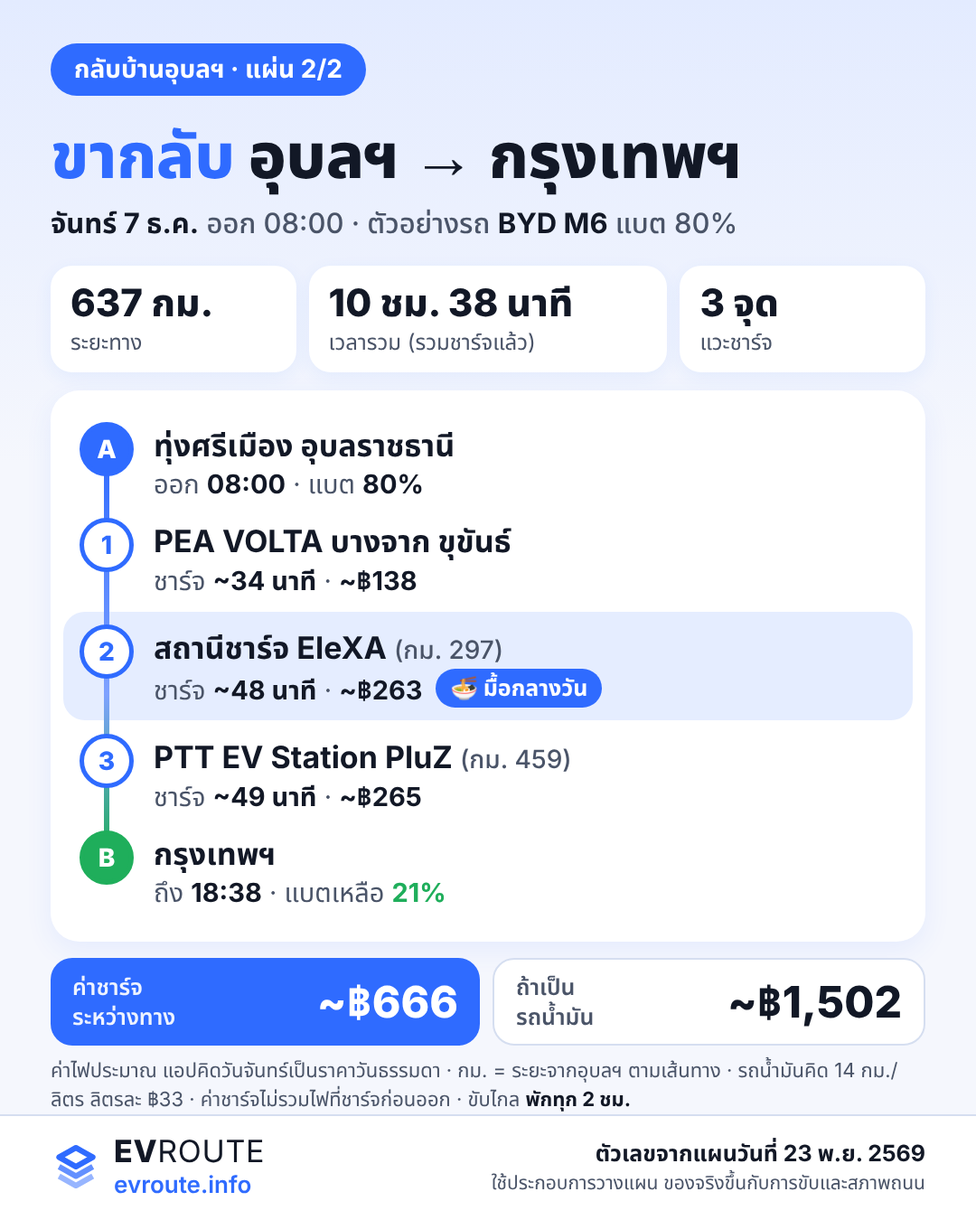
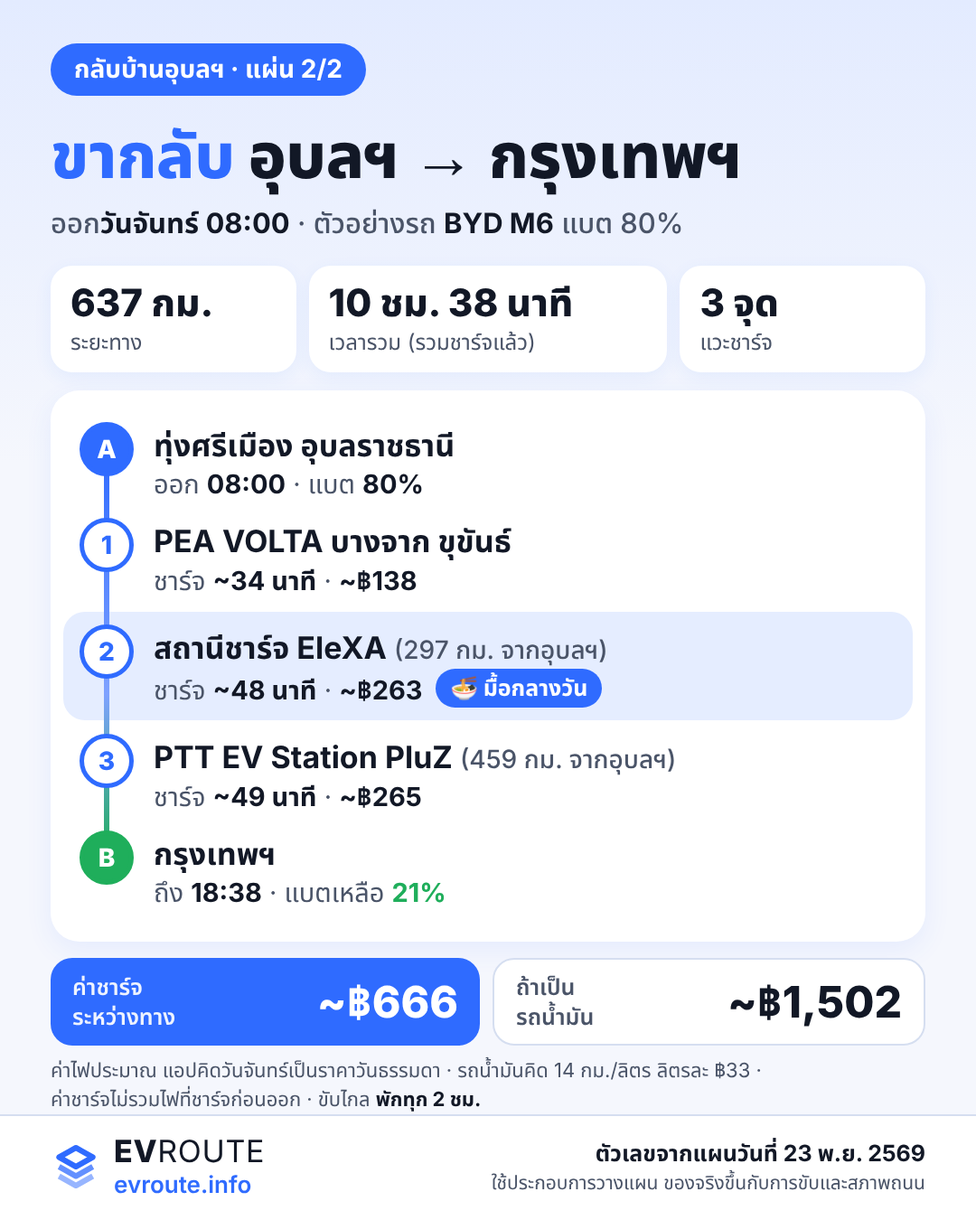
Long-weekend campaign: 8 images (visual-designer)
Claude-Session: https://claude.ai/code/session_01LGo3dKAudiWU9QkRQhtUip

diff --git a/marketing/2026-12-longweekend/images/src/base.css b/marketing/2026-12-longweekend/images/src/base.css
@@ -13,7 +13,7 @@ body{font-family:"Inter","Noto Sans Thai","Noto Color Emoji",sans-serif;color:va
 .canvas{position:relative;width:1080px;height:1350px;overflow:hidden;display:flex;flex-direction:column;
   padding:48px 56px 0;background:linear-gradient(180deg,#e3ebff 0%,#f5f7fd 38%,#f5f7fd 100%)}
 .canvas.sq{height:1080px}
-.canvas.story{height:1920px;padding-top:200px}
+.canvas.story{height:1920px;padding-top:176px;padding-bottom:200px} /* Story UI covers top/bottom */
 
 .pill{align-self:flex-start;display:inline-flex;align-items:center;gap:10px;background:var(--blue);color:#fff;
   font-weight:700;font-size:28px;line-height:1.2;padding:12px 26px;border-radius:999px}
@@ -110,7 +110,7 @@ h1 .accent{color:var(--blue)}
 .trip{flex:1;background:#fff;border-radius:30px;padding:24px 28px 26px;box-shadow:0 10px 30px rgba(47,107,255,.08);display:flex;flex-direction:column}
 .trip .dest{font-size:56px;font-weight:800;line-height:1.25;color:var(--blue)}
 .trip .prov{font-size:26px;color:var(--muted);line-height:1.3}
-.trip .car{font-size:24px;line-height:1.4;color:var(--muted);margin-top:10px;padding-bottom:14px;border-bottom:2px solid var(--line)}
+.trip .car{font-size:25px;line-height:1.4;color:var(--muted);margin-top:10px;padding-bottom:14px;border-bottom:2px solid var(--line)}
 .trip .car b{color:var(--ink)}
 .trip .row{padding:12px 0;border-bottom:2px solid var(--line)}
 .trip .row:last-child{border-bottom:0;padding-bottom:0}
@@ -125,22 +125,22 @@ h1 .accent{color:var(--blue)}
 .note{font-size:27px;line-height:1.45;margin-top:16px;color:var(--ink);text-align:center;font-weight:600}
 
 /* G3 story */
-.story h1{font-size:104px;line-height:1.22}
+.story h1{font-size:96px;line-height:1.22}
 .story .foot{margin:auto 0 0;border-radius:28px;border:2px solid var(--line);padding:20px 32px 22px}
 .tips{display:flex;gap:12px;flex-wrap:wrap;margin-top:22px}
 .tips span{background:#fff;border:2px solid var(--line);border-radius:999px;padding:8px 22px 10px;font-size:30px;font-weight:600;line-height:1.3}
-.cta{margin-top:22px;background:var(--blue);color:#fff;border-radius:28px;padding:22px 32px;font-size:38px;font-weight:800;line-height:1.3;text-align:center}
-.cta small{display:block;font-size:28px;font-weight:600;opacity:.92}
+.cta{margin-top:26px;color:var(--blue);font-size:36px;font-weight:800;line-height:1.35;text-align:center}
+.cta small{display:block;font-size:27px;font-weight:600;color:var(--muted)}
 
 /* G4 · day cards */
-.day{background:#fff;border-radius:30px;padding:22px 32px 20px;box-shadow:0 10px 30px rgba(47,107,255,.08);margin-top:16px}
+.day{background:#fff;border-radius:30px;padding:20px 32px 16px;box-shadow:0 10px 30px rgba(47,107,255,.08);margin-top:16px}
 .day .dh{display:flex;justify-content:space-between;align-items:center;gap:12px}
 .day .dbadge{background:var(--blue);color:#fff;font-weight:800;font-size:28px;border-radius:999px;padding:5px 20px 7px;line-height:1.3;margin-right:12px}
 .day .dd{font-size:28px;font-weight:700}
 .day .dk{font-size:28px;color:var(--muted);white-space:nowrap}
 .day .dk b{color:var(--ink)}
-.day .dt{font-size:38px;font-weight:800;line-height:1.3;margin-top:10px}
-.mini{position:relative;height:150px;margin:6px 4px 0}
+.day .dt{font-size:38px;font-weight:800;line-height:1.3;margin-top:6px}
+.mini{position:relative;height:136px;margin:4px 4px 0}
 .mini .track{position:absolute;left:24px;right:24px;top:30px;height:6px;border-radius:3px;background:linear-gradient(90deg,var(--blue),#7fa2ff 55%,var(--green))}
 .mini .dot{position:absolute;top:6px;width:52px;height:52px;font-size:24px;border-width:5px}
 .mini .a{left:0}.mini .s{left:50%;margin-left:-26px}.mini .b{right:0;background:var(--green);border-color:var(--green);color:#fff}
@@ -149,8 +149,8 @@ h1 .accent{color:var(--blue)}
 .mini .lab b{color:var(--ink);font-weight:700}
 .mini .lab.la{left:0}.mini .lab.ls{left:50%;transform:translateX(-50%);text-align:center}.mini .lab.lb{right:0;text-align:right}
 .mini .lab .g{color:var(--green)}
-.night{margin:12px 0 0;text-align:center;font-size:26px;color:var(--muted);line-height:1.4}
+.night{margin:10px 0 0;text-align:center;font-size:26px;color:var(--muted);line-height:1.4}
 .night b{color:var(--ink)}
-.banner{margin-top:16px;background:var(--blue);color:#fff;border-radius:26px;padding:18px 28px 20px}
+.banner{margin-top:14px;background:var(--blue);color:#fff;border-radius:26px;padding:14px 28px 16px}
 .banner b{display:block;font-size:34px;font-weight:800;line-height:1.35}
 .banner span{display:block;font-size:26px;opacity:.92;line-height:1.4;margin-top:2px}

diff --git a/marketing/2026-12-longweekend/images/src/G4-chiangrai-2days.html b/marketing/2026-12-longweekend/images/src/G4-chiangrai-2days.html
@@ -1,0 +1,44 @@
+<!doctype html><html lang="th"><head><meta charset="utf-8"><title>G4 · เชียงราย แบ่ง 2 วัน (R6a + R6b)</title>
+<link rel="stylesheet" href="base.css"><script src="base.js" defer></script></head><body>
+<!-- ตัวเลขทั้งหมดจาก routes.md · R6a (15:01) R6b (15:02) วางแผน 23 พ.ย. 2569 · รวม 815 กม. ~฿443 น้ำมัน ฿1,921 จากบรรทัดสรุปใต้ตาราง · 31 ธ.ค./1 ม.ค. แอปคิดราคาวันธรรมดา -->
+<div class="canvas">
+  <div class="pill">ทริปปีใหม่ · เชียงราย</div>
+  <h1>ไปเชียงรายด้วย EV<br><span class="accent">แบ่งขับ 2 วัน</span> สบายกว่า</h1>
+  <p class="sub">ตัวอย่างรถ <b>Deepal S07</b> · ค้างคืนที่พิษณุโลก · รวม <b>815 กม.</b></p>
+
+  <div class="day">
+    <div class="dh"><div><span class="dbadge">วันที่ 1</span><span class="dd">พฤ. 31 ธ.ค.</span></div><div class="dk"><b>393 กม.</b> · 5 ชม. 45 นาที</div></div>
+    <div class="dt">กรุงเทพฯ → เซ็นทรัล พิษณุโลก</div>
+    <div class="mini">
+      <div class="track"></div>
+      <div class="dot a">A</div><div class="dot s">1</div><div class="dot b">B</div>
+      <div class="lab la">ออก <b>08:00</b><br>แบต <b>100%</b></div>
+      <div class="lab ls"><b>EA Shell Inburi North</b><br>ชาร์จ <b>~35 นาที</b> · <b>~฿131</b></div>
+      <div class="lab lb">ถึง <b>13:45</b><br>แบตเหลือ <b class="g">20%</b></div>
+    </div>
+  </div>
+  <p class="night">🌙 ค้างคืนพิษณุโลก ชาร์จก่อนออกวันที่ 2 (ค่าไฟส่วนนี้ไม่อยู่ในแผน)</p>
+  <div class="day" style="margin-top:10px">
+    <div class="dh"><div><span class="dbadge">วันที่ 2</span><span class="dd">ศ. 1 ม.ค. 2570</span></div><div class="dk"><b>422 กม.</b> · 6 ชม. 57 นาที</div></div>
+    <div class="dt">เซ็นทรัล พิษณุโลก → หอนาฬิกาเชียงราย</div>
+    <div class="mini">
+      <div class="track"></div>
+      <div class="dot a">A</div><div class="dot s">1</div><div class="dot b">B</div>
+      <div class="lab la">ออก <b>08:00</b><br>แบต <b>80%</b></div>
+      <div class="lab ls"><b>Altervim</b> (184 กม. จากพิษณุโลก)<br>ชาร์จ <b>~1 ชม. 3 นาที</b> · <b>~฿312</b></div>
+      <div class="lab lb">ถึง <b>14:56</b><br>แบตเหลือ <b class="g">20%</b></div>
+    </div>
+  </div>
+
+  <div class="banner"><b>📌 บันทึกทริปไว้ แอปเช็กสถานีให้ช่วง 3 วันก่อนออก</b><span>ถ้าสถานีที่จะแวะมีคนแจ้งปัญหา หน้าแรกจะเตือน</span></div>
+  <p class="fine">ค่าชาร์จระหว่างทาง 2 วัน <b>~฿443</b> (ไม่รวมไฟที่ชาร์จก่อนออกและตอนค้างคืน) · รถน้ำมันระยะเท่ากัน <b>~฿1,921</b> (<span class="nw">14 กม./ลิตร</span> <span class="nw">ลิตรละ ฿33</span>) · ค่าไฟประมาณ แอปคิด 31 ธ.ค. และ 1 ม.ค. เป็นราคาวันธรรมดา</p>
+
+  <footer class="foot">
+    <div class="brand">
+      <svg viewBox="0 0 24 24" aria-hidden="true"><path d="M4 7.5 12 3l8 4.5-8 4.5z"/><path d="M4 12l8 4.5 8-4.5" opacity=".75"/><path d="M4 16.5 12 21l8-4.5" opacity=".5"/></svg>
+      <div><div class="name"><b>EV</b>ROUTE</div><div class="url">evroute.info</div></div>
+    </div>
+    <div class="stamp"><b>ตัวเลขจากแผนวันที่ 23 พ.ย. 2569</b><span>ใช้ประกอบการวางแผน ของจริงขึ้นกับการขับและสภาพถนน</span></div>
+  </footer>
+</div>
+</body></html>

diff --git a/marketing/2026-12-longweekend/images/src/G1-alt-ubon-lunch.html b/marketing/2026-12-longweekend/images/src/G1-alt-ubon-lunch.html
@@ -1,0 +1,48 @@
+<!doctype html><html lang="th"><head><meta charset="utf-8"><title>G1 ทางเลือก · R4 แวะชาร์จตรงมื้อเที่ยง</title>
+<link rel="stylesheet" href="base.css"><script src="base.js" defer></script></head><body>
+<!-- ตัวเลขทั้งหมดจาก routes.md · R4 · วางแผน 23 พ.ย. 2569 15:00 · ตำแหน่งจุดบนแถบ = กม./636 -->
+<div class="canvas">
+  <div class="pill">ช่วงเดินทางกลับบ้าน · ต้นเดือนธันวา</div>
+  <h1>กลับอุบลฯ ด้วย EV<br><span class="accent">แวะชาร์จตรงมื้อเที่ยง</span> 🍜</h1>
+  <p class="sub">ออก<b>วันเสาร์</b> · ตัวอย่างรถ <b>BYD M6</b> แบต 100% · <b>636 กม.</b> · แวะชาร์จ 3 จุด</p>
+
+  <div class="card" style="margin-top:22px;padding-bottom:20px">
+    <div class="bar">
+      <div class="track"></div>
+      <div class="lab l"><b>กรุงเทพฯ</b><br>ออก 06:00</div>
+      <div class="lab r"><b>อุบลฯ</b><br>ถึง 16:14 · แบต <b style="color:var(--green)">20%</b></div>
+      <div class="bubble" style="left:57.55%">🍜 มื้อกลางวัน</div>
+      <div class="p" style="left:0"><div class="dot" style="background:var(--blue);color:#fff">A</div></div>
+      <div class="p" style="left:43.71%"><div class="dot">1</div></div>
+      <div class="p big" style="left:57.55%"><div class="dot">2</div></div>
+      <div class="p" style="left:85.38%"><div class="dot">3</div></div>
+      <div class="p" style="left:100%"><div class="dot" style="background:var(--green);border-color:var(--green);color:#fff">B</div></div>
+      <div class="lab under" style="left:43.71%">278 กม.</div>
+      <div class="lab under" style="left:57.55%"><b style="font-size:25px;color:var(--blue)">366 กม.</b></div>
+      <div class="lab under" style="left:85.38%">543 กม.</div>
+    </div>
+    <div class="others">จุด 1 · <b>Altervim</b> (278 กม. จากกรุงเทพฯ) · ชาร์จ ~24 นาที · ~฿122<br>จุด 3 · <b>PTT EV Station PluZ</b> (543 กม. จากกรุงเทพฯ) · ชาร์จ ~26 นาที · ~฿109</div>
+  </div>
+
+  <div class="hero">
+    <span class="tag">จุด 2 · 🍜 มื้อกลางวัน</span>
+    <div class="hn">EV Station Pluz <span class="km">(366 กม. จากกรุงเทพฯ)</span></div>
+    <div class="big"><b>~56 นาที</b><span>ชาร์จไป กินข้าวไป</span><b style="margin-left:auto">~฿243</b></div>
+    <div class="am">ร้านอาหาร 3 ร้าน · ห้องน้ำ (ตามข้อมูลในแอป)</div>
+  </div>
+
+  <div class="compare">
+    <div class="cmp ev"><small>ค่าชาร์จ<br>ระหว่างทาง</small><b>~฿474</b></div>
+    <div class="cmp gas"><small>ถ้าเป็น<br>รถน้ำมัน</small><b>~฿1,499</b></div>
+  </div>
+  <p class="fine">เวลารวม 10 ชม. 14 นาที (รวมชาร์จ) ขับไกล <b>พักทุก 2 ชม.</b> · รถน้ำมันคิด <span class="nw">14 กม./ลิตร</span> <span class="nw">ลิตรละ ฿33</span> · <span class="nw">ค่าชาร์จไม่รวมไฟที่ชาร์จจากบ้านก่อนออก</span></p>
+
+  <footer class="foot">
+    <div class="brand">
+      <svg viewBox="0 0 24 24" aria-hidden="true"><path d="M4 7.5 12 3l8 4.5-8 4.5z"/><path d="M4 12l8 4.5 8-4.5" opacity=".75"/><path d="M4 16.5 12 21l8-4.5" opacity=".5"/></svg>
+      <div><div class="name"><b>EV</b>ROUTE</div><div class="url">evroute.info</div></div>
+    </div>
+    <div class="stamp"><b>ตัวเลขจากแผนวันที่ 23 พ.ย. 2569</b><span>ใช้ประกอบการวางแผน ของจริงขึ้นกับการขับและสภาพถนน</span></div>
+  </footer>
+</div>
+</body></html>

diff --git a/marketing/2026-12-longweekend/images/src/G2-cold-pair.html b/marketing/2026-12-longweekend/images/src/G2-cold-pair.html
@@ -1,0 +1,38 @@
+<!doctype html><html lang="th"><head><meta charset="utf-8"><title>G2 · R2 ภูทับเบิก + R3 วังน้ำเขียว</title>
+<link rel="stylesheet" href="base.css"><script src="base.js" defer></script></head><body>
+<!-- ตัวเลขทั้งหมดจาก routes.md · R2 (14:59) R3 (15:00) วางแผน 23 พ.ย. 2569 · ห้ามทำให้ดูเหมือนเทียบรถ 2 คัน · R3 ห้ามพูดว่าปลายทางมี/ไม่มีที่ชาร์จเร็ว -->
+<div class="canvas">
+  <div class="pill">เที่ยวหนาวใกล้กรุงเทพฯ</div>
+  <h1>หนาวนี้ขับ EV ไปเที่ยว<br><span class="accent">แวะชาร์จแค่ 1 จุด</span></h1>
+  <div class="pair" style="margin-top:28px">
+    <div class="trip">
+      <div class="dest">ภูทับเบิก</div>
+      <div class="prov">เพชรบูรณ์</div>
+      <div class="car"><b>BYD Sealion 7</b><br>แบต 100% · ออกวันเสาร์ 07:00</div>
+      <div class="row"><div class="k">ระยะทาง · เวลารวม</div><div class="v">426 กม. <small>6 ชม. 54 นาที</small></div></div>
+      <div class="row"><div class="k">แวะชาร์จ 1 จุด</div><div class="st">Altervim</div><div class="sm">269 กม. จากกรุงเทพฯ</div><div class="sm">ชาร์จ <b>~48 นาที</b> · <b>~฿250</b></div></div>
+      <div class="row"><div class="k">ถึงแล้วแบตเหลือ</div><div class="v">32%<span style="color:var(--orange)">*</span></div></div>
+    </div>
+    <div class="trip">
+      <div class="dest">วังน้ำเขียว</div>
+      <div class="prov">นครราชสีมา</div>
+      <div class="car"><b class="nw">BYD Atto 1 Premium 38.9 kWh</b><br>แบต 100% · ออกวันเสาร์ 08:00</div>
+      <div class="row"><div class="k">ระยะทาง · เวลารวม</div><div class="v">237 กม. <small>3 ชม. 42 นาที</small></div></div>
+      <div class="row"><div class="k">แวะชาร์จ 1 จุด</div><div class="st">PTT EV Station PluZ</div><div class="sm">171 กม. จากกรุงเทพฯ</div><div class="sm">ชาร์จ <b>~11 นาที</b> · <b>~฿26</b></div></div>
+      <div class="row"><div class="k">ถึงแล้วแบตเหลือ</div><div class="v">20%</div></div>
+    </div>
+  </div>
+
+  <div class="warn" style="margin-top:16px"><b>* ภูทับเบิก:</b> ทางขึ้นชันและคดเคี้ยว แอปยังไม่คิดความชันของถนน แบตจริงตอนถึงอาจเหลือน้อยกว่านี้ ขับช้า ๆ เผื่อแบตไว้</div>
+  <p class="note">2 ทริปตัวอย่าง คนละรุ่นรถ ไม่ได้เอามาเทียบกัน<br>ใส่รุ่นรถและแบตของคุณเองได้ ฟรี ไม่ต้องสมัคร</p>
+  <p class="fine" style="text-align:center">ออกจากกรุงเทพฯ แบต 100% · เวลารวมนับเวลาชาร์จแล้ว</p>
+
+  <footer class="foot">
+    <div class="brand">
+      <svg viewBox="0 0 24 24" aria-hidden="true"><path d="M4 7.5 12 3l8 4.5-8 4.5z"/><path d="M4 12l8 4.5 8-4.5" opacity=".75"/><path d="M4 16.5 12 21l8-4.5" opacity=".5"/></svg>
+      <div><div class="name"><b>EV</b>ROUTE</div><div class="url">evroute.info</div></div>
+    </div>
+    <div class="stamp"><b>ตัวเลขจากแผนวันที่ 23 พ.ย. 2569</b><span>ใช้ประกอบการวางแผน ของจริงขึ้นกับการขับและสภาพถนน</span></div>
+  </footer>
+</div>
+</body></html>

diff --git a/marketing/2026-12-longweekend/images/src/G1-nan.html b/marketing/2026-12-longweekend/images/src/G1-nan.html
@@ -1,0 +1,39 @@
+<!doctype html><html lang="th"><head><meta charset="utf-8"><title>G1 · R1 น่าน แวะชาร์จ 4 จุด (P1)</title>
+<link rel="stylesheet" href="base.css"><script src="base.js" defer></script></head><body>
+<!-- ตัวเลขทั้งหมดจาก routes.md · R1 · วางแผน 23 พ.ย. 2569 14:58 · R1 ไม่มีจุดมื้อกลางวัน (มีแค่ป้ายมื้อเช้าที่จุด 1) -->
+<div class="canvas">
+  <div class="pill">เที่ยวหนาว · ต้นเดือนธันวา</div>
+  <h1 style="font-size:66px">ขับ EV ไปน่าน <span class="accent">แวะชาร์จ 4 จุด</span></h1>
+
+  <div class="stats">
+    <div class="stat"><b>668 กม.</b><span>ระยะทาง</span></div>
+    <div class="stat" style="flex:1.55"><b>10 ชม. 52 นาที</b><span>เวลารวม (รวมชาร์จแล้ว)</span></div>
+    <div class="stat"><b>16:51</b><span>ถึงน่าน</span></div>
+  </div>
+
+  <div class="card" style="margin-top:18px">
+    <ol class="route">
+      <li class="start"><div class="dot">A</div><div><div class="nm">กรุงเทพฯ <span class="km">· MG4 Electric (51 kWh)</span></div><div class="meta">ออก<b>วันเสาร์ 06:00</b> · แบต <b>100%</b></div></div></li>
+      <li><div class="dot">1</div><div><div class="nm">PTT EV Station PluZ <span class="km">(146 กม. จากกรุงเทพฯ)</span></div><div class="meta">ชาร์จ <b>~19 นาที</b> · <b>~฿65</b> <span class="badge soft">🍜 มื้อเช้า</span></div></div></li>
+      <li><div class="dot">2</div><div><div class="nm">EleXA <span class="km">(261 กม. จากกรุงเทพฯ)</span></div><div class="meta">ชาร์จ <b>~37 นาที</b> · <b>~฿194</b></div></div></li>
+      <li><div class="dot">3</div><div><div class="nm">PEA VOLTA บางจาก เมืองพิษณุโลก <span class="nw">(ทล.11 กม.228)</span></div><div class="meta">ชาร์จ <b>~50 นาที</b> · <b>~฿193</b></div></div></li>
+      <li><div class="dot">4</div><div><div class="nm">Altervim <span class="km">(553 กม. จากกรุงเทพฯ)</span></div><div class="meta">ชาร์จ <b>~32 นาที</b> · <b>~฿169</b> · ห่างเส้นทาง 1.8 กม.</div></div></li>
+      <li class="end"><div class="dot">B</div><div><div class="nm">ข่วงเมืองน่าน</div><div class="meta">ถึง <b>16:51</b> · แบตเหลือ <b class="g">21%</b></div></div></li>
+    </ol>
+  </div>
+
+  <div class="compare">
+    <div class="cmp ev"><small>ค่าชาร์จ<br>ระหว่างทาง</small><b>~฿621</b></div>
+    <div class="cmp gas"><small>ถ้าเป็น<br>รถน้ำมัน</small><b>~฿1,575</b></div>
+  </div>
+  <p class="fine">ขับไกล <b>พักทุก 2 ชม.</b> · รถน้ำมันคิด <span class="nw">14 กม./ลิตร</span> <span class="nw">ลิตรละ ฿33</span> · <span class="nw">ค่าชาร์จไม่รวมไฟที่ชาร์จจากบ้านก่อนออก</span></p>
+
+  <footer class="foot">
+    <div class="brand">
+      <svg viewBox="0 0 24 24" aria-hidden="true"><path d="M4 7.5 12 3l8 4.5-8 4.5z"/><path d="M4 12l8 4.5 8-4.5" opacity=".75"/><path d="M4 16.5 12 21l8-4.5" opacity=".5"/></svg>
+      <div><div class="name"><b>EV</b>ROUTE</div><div class="url">evroute.info</div></div>
+    </div>
+    <div class="stamp"><b>ตัวเลขจากแผนวันที่ 23 พ.ย. 2569</b><span>ใช้ประกอบการวางแผน ของจริงขึ้นกับการขับและสภาพถนน</span></div>
+  </footer>
+</div>
+</body></html>

diff --git a/marketing/2026-12-longweekend/images/src/G3-story-back.html b/marketing/2026-12-longweekend/images/src/G3-story-back.html
@@ -1,0 +1,37 @@
+<!doctype html><html lang="th"><head><meta charset="utf-8"><title>G3 Story · R5 พรุ่งนี้ขากลับ</title>
+<link rel="stylesheet" href="base.css"><script src="base.js" defer></script></head><body>
+<!-- ตัวเลขทั้งหมดจาก routes.md · R5 · วางแผน 23 พ.ย. 2569 15:00 · ค่าไฟเป็นราคาวันธรรมดา ห้ามเรียก Off-Peak · เว้นขอบบน/ล่างให้ UI ของ Story -->
+<div class="canvas story">
+  <div class="pill">ขากลับ · ตัวอย่างออกวันจันทร์</div>
+  <h1>พรุ่งนี้ขากลับ<br><span class="accent">วางแผนยัง?</span></h1>
+  <p class="sub">อุบลฯ → กรุงเทพฯ · ตัวอย่างรถ <b>BYD M6</b> แบต 80% · ออก 08:00</p>
+
+  <div class="stats">
+    <div class="stat"><b>637 กม.</b><span>ระยะทาง</span></div>
+    <div class="stat" style="flex:1.55"><b>10 ชม. 38 นาที</b><span>เวลารวม (รวมชาร์จแล้ว)</span></div>
+    <div class="stat"><b>~฿666</b><span>ค่าชาร์จระหว่างทาง</span></div>
+  </div>
+
+  <div class="card" style="margin-top:20px">
+    <ol class="route">
+      <li class="start"><div class="dot">A</div><div><div class="nm">ทุ่งศรีเมือง อุบลราชธานี</div><div class="meta">ออก <b>08:00</b> · แบต <b>80%</b></div></div></li>
+      <li><div class="dot">1</div><div><div class="nm">PEA VOLTA บางจาก ขุขันธ์</div><div class="meta">ชาร์จ <b>~34 นาที</b> · <b>~฿138</b></div></div></li>
+      <li class="meal"><div class="dot">2</div><div><div class="nm">สถานีชาร์จ EleXA <span class="km">(297 กม. จากอุบลฯ)</span></div><div class="meta">ชาร์จ <b>~48 นาที</b> · <b>~฿263</b> <span class="badge">🍜 มื้อกลางวัน</span></div></div></li>
+      <li><div class="dot">3</div><div><div class="nm">PTT EV Station PluZ <span class="km">(459 กม. จากอุบลฯ)</span></div><div class="meta">ชาร์จ <b>~49 นาที</b> · <b>~฿265</b></div></div></li>
+      <li class="end"><div class="dot">B</div><div><div class="nm">กรุงเทพฯ</div><div class="meta">ถึง <b>18:38</b> · แบตเหลือ <b class="g">21%</b></div></div></li>
+    </ol>
+  </div>
+
+  <div class="tips"><span>ออกเช้า</span><span>มีจุดสำรองไว้</span><span>ขับไกล พักทุก 2 ชม.</span></div>
+  <p class="fine">ค่าไฟประมาณ แอปคิดวันจันทร์เป็นราคาวันธรรมดา · เวลารวมนับเวลาชาร์จแล้ว</p>
+  <!-- ที่ว่างระหว่างบรรทัดนี้กับส่วนท้าย (y ราว 1450–1590) เว้นไว้วางสติกเกอร์ลิงก์ "วางแผนขากลับ" (posts.md P4) -->
+
+  <footer class="foot">
+    <div class="brand">
+      <svg viewBox="0 0 24 24" aria-hidden="true"><path d="M4 7.5 12 3l8 4.5-8 4.5z"/><path d="M4 12l8 4.5 8-4.5" opacity=".75"/><path d="M4 16.5 12 21l8-4.5" opacity=".5"/></svg>
+      <div><div class="name"><b>EV</b>ROUTE</div><div class="url">evroute.info</div></div>
+    </div>
+    <div class="stamp"><b>ตัวเลขจากแผนวันที่ 23 พ.ย. 2569</b><span>ใช้ประกอบการวางแผน ของจริงขึ้นกับการขับและสภาพถนน</span></div>
+  </footer>
+</div>
+</body></html>

diff --git a/marketing/2026-12-longweekend/images/src/G3-1-ubon-go.html b/marketing/2026-12-longweekend/images/src/G3-1-ubon-go.html
@@ -4,7 +4,7 @@
 <div class="canvas">
   <div class="pill">กลับบ้านอุบลฯ · แผ่น 1/2</div>
   <h1><span class="accent">ขาไป</span> กรุงเทพฯ → อุบลฯ</h1>
-  <p class="sub"><b>เสาร์ 5 ธ.ค.</b> ออก 06:00 · ตัวอย่างรถ <b>BYD M6</b> แบต 100%</p>
+  <p class="sub">ออก<b>วันเสาร์ 06:00</b> · ตัวอย่างรถ <b>BYD M6</b> แบต 100%</p>
 
   <div class="stats">
     <div class="stat"><b>636 กม.</b><span>ระยะทาง</span></div>
@@ -15,9 +15,9 @@
   <div class="card" style="margin-top:20px">
     <ol class="route">
       <li class="start"><div class="dot">A</div><div><div class="nm">กรุงเทพฯ</div><div class="meta">ออก <b>06:00</b> · แบต <b>100%</b></div></div></li>
-      <li><div class="dot">1</div><div><div class="nm">Altervim <span class="km">(กม. 278)</span></div><div class="meta">ชาร์จ <b>~24 นาที</b> · <b>~฿122</b></div></div></li>
-      <li class="meal"><div class="dot">2</div><div><div class="nm">EV Station Pluz <span class="km">(กม. 366)</span></div><div class="meta">ชาร์จ <b>~56 นาที</b> · <b>~฿243</b> <span class="badge">🍜 มื้อกลางวัน</span></div></div></li>
-      <li><div class="dot">3</div><div><div class="nm">PTT EV Station PluZ <span class="km">(กม. 543)</span></div><div class="meta">ชาร์จ <b>~26 นาที</b> · <b>~฿109</b></div></div></li>
+      <li><div class="dot">1</div><div><div class="nm">Altervim <span class="km">(278 กม. จากกรุงเทพฯ)</span></div><div class="meta">ชาร์จ <b>~24 นาที</b> · <b>~฿122</b></div></div></li>
+      <li class="meal"><div class="dot">2</div><div><div class="nm">EV Station Pluz <span class="km">(366 กม. จากกรุงเทพฯ)</span></div><div class="meta">ชาร์จ <b>~56 นาที</b> · <b>~฿243</b> <span class="badge">🍜 มื้อกลางวัน</span></div></div></li>
+      <li><div class="dot">3</div><div><div class="nm">PTT EV Station PluZ <span class="km">(543 กม. จากกรุงเทพฯ)</span></div><div class="meta">ชาร์จ <b>~26 นาที</b> · <b>~฿109</b></div></div></li>
       <li class="end"><div class="dot">B</div><div><div class="nm">ทุ่งศรีเมือง อุบลราชธานี</div><div class="meta">ถึง <b>16:14</b> · แบตเหลือ <b class="g">20%</b></div></div></li>
     </ol>
   </div>
@@ -26,7 +26,7 @@
     <div class="cmp ev"><small>ค่าชาร์จ<br>ระหว่างทาง</small><b>~฿474</b></div>
     <div class="cmp gas"><small>ถ้าเป็น<br>รถน้ำมัน</small><b>~฿1,499</b></div>
   </div>
-  <p class="fine">กม. = ระยะจากกรุงเทพฯ ตามเส้นทาง · รถน้ำมันคิด 14 กม./ลิตร ลิตรละ ฿33 · ค่าชาร์จไม่รวมไฟที่ชาร์จจากบ้านก่อนออก · ขับไกล <b>พักทุก 2 ชม.</b></p>
+  <p class="fine">รถน้ำมันคิด <span class="nw">14 กม./ลิตร</span> <span class="nw">ลิตรละ ฿33</span> · <span class="nw">ค่าชาร์จไม่รวมไฟที่ชาร์จจากบ้านก่อนออก</span> · ขับไกล <b>พักทุก 2 ชม.</b></p>
   <footer class="foot">
     <div class="brand">
       <svg viewBox="0 0 24 24" aria-hidden="true"><path d="M4 7.5 12 3l8 4.5-8 4.5z"/><path d="M4 12l8 4.5 8-4.5" opacity=".75"/><path d="M4 16.5 12 21l8-4.5" opacity=".5"/></svg>

diff --git a/marketing/2026-12-longweekend/images/src/G3-2-ubon-back.html b/marketing/2026-12-longweekend/images/src/G3-2-ubon-back.html
@@ -4,7 +4,7 @@
 <div class="canvas">
   <div class="pill">กลับบ้านอุบลฯ · แผ่น 2/2</div>
   <h1><span class="accent">ขากลับ</span> อุบลฯ → กรุงเทพฯ</h1>
-  <p class="sub"><b>จันทร์ 7 ธ.ค.</b> ออก 08:00 · ตัวอย่างรถ <b>BYD M6</b> แบต 80%</p>
+  <p class="sub">ออก<b>วันจันทร์ 08:00</b> · ตัวอย่างรถ <b>BYD M6</b> แบต 80%</p>
 
   <div class="stats">
     <div class="stat"><b>637 กม.</b><span>ระยะทาง</span></div>
@@ -16,8 +16,8 @@
     <ol class="route">
       <li class="start"><div class="dot">A</div><div><div class="nm">ทุ่งศรีเมือง อุบลราชธานี</div><div class="meta">ออก <b>08:00</b> · แบต <b>80%</b></div></div></li>
       <li><div class="dot">1</div><div><div class="nm">PEA VOLTA บางจาก ขุขันธ์</div><div class="meta">ชาร์จ <b>~34 นาที</b> · <b>~฿138</b></div></div></li>
-      <li class="meal"><div class="dot">2</div><div><div class="nm">สถานีชาร์จ EleXA <span class="km">(กม. 297)</span></div><div class="meta">ชาร์จ <b>~48 นาที</b> · <b>~฿263</b> <span class="badge">🍜 มื้อกลางวัน</span></div></div></li>
-      <li><div class="dot">3</div><div><div class="nm">PTT EV Station PluZ <span class="km">(กม. 459)</span></div><div class="meta">ชาร์จ <b>~49 นาที</b> · <b>~฿265</b></div></div></li>
+      <li class="meal"><div class="dot">2</div><div><div class="nm">สถานีชาร์จ EleXA <span class="km">(297 กม. จากอุบลฯ)</span></div><div class="meta">ชาร์จ <b>~48 นาที</b> · <b>~฿263</b> <span class="badge">🍜 มื้อกลางวัน</span></div></div></li>
+      <li><div class="dot">3</div><div><div class="nm">PTT EV Station PluZ <span class="km">(459 กม. จากอุบลฯ)</span></div><div class="meta">ชาร์จ <b>~49 นาที</b> · <b>~฿265</b></div></div></li>
       <li class="end"><div class="dot">B</div><div><div class="nm">กรุงเทพฯ</div><div class="meta">ถึง <b>18:38</b> · แบตเหลือ <b class="g">21%</b></div></div></li>
     </ol>
   </div>
@@ -26,7 +26,7 @@
     <div class="cmp ev"><small>ค่าชาร์จ<br>ระหว่างทาง</small><b>~฿666</b></div>
     <div class="cmp gas"><small>ถ้าเป็น<br>รถน้ำมัน</small><b>~฿1,502</b></div>
   </div>
-  <p class="fine">ค่าไฟประมาณ แอปคิดวันจันทร์เป็นราคาวันธรรมดา · กม. = ระยะจากอุบลฯ ตามเส้นทาง · รถน้ำมันคิด 14 กม./ลิตร ลิตรละ ฿33 · ค่าชาร์จไม่รวมไฟที่ชาร์จก่อนออก · ขับไกล <b>พักทุก 2 ชม.</b></p>
+  <p class="fine">ค่าไฟประมาณ แอปคิดวันจันทร์เป็นราคาวันธรรมดา · รถน้ำมันคิด <span class="nw">14 กม./ลิตร</span> <span class="nw">ลิตรละ ฿33</span> · <span class="nw">ค่าชาร์จไม่รวมไฟที่ชาร์จก่อนออก</span> · ขับไกล <b>พักทุก 2 ชม.</b></p>
 
   <footer class="foot">
     <div class="brand">

diff --git a/marketing/2026-12-longweekend/images/src/G2-cold-pair-square.html b/marketing/2026-12-longweekend/images/src/G2-cold-pair-square.html
@@ -1,0 +1,37 @@
+<!doctype html><html lang="th"><head><meta charset="utf-8"><title>G2 · 1080x1080 โฆษณา A1-cold</title>
+<link rel="stylesheet" href="base.css">
+<style>/* 1080x1080: tighter */
+.sq .trip{padding:18px 28px 18px}.sq .trip .dest{font-size:50px}.sq .trip .row{padding:9px 0}.sq .pair{margin-top:18px}
+</style><script src="base.js" defer></script></head><body>
+<!-- ตัวเลขทั้งหมดจาก routes.md · R2 R3 วางแผน 23 พ.ย. 2569 · ใช้กับ A1-cold (fb-ads-dec-cold) -->
+<div class="canvas sq">
+  <div class="pill">เที่ยวหนาวใกล้กรุงเทพฯ · 2 ทริปตัวอย่าง</div>
+  <h1 style="font-size:60px;margin-top:16px">หนาวนี้ขับ EV ไปเที่ยว<br><span class="accent">แวะชาร์จแค่ 1 จุด</span></h1>
+  <div class="pair">
+    <div class="trip">
+      <div class="dest">ภูทับเบิก</div>
+      <div class="car"><b>BYD Sealion 7</b><br>แบต 100% · ออกวันเสาร์ 07:00</div>
+      <div class="row"><div class="k">ระยะทาง · เวลารวม</div><div class="v">426 กม. <small>6 ชม. 54 นาที</small></div></div>
+      <div class="row"><div class="k">แวะชาร์จ 1 จุด</div><div class="st">Altervim</div><div class="sm">269 กม. จากกรุงเทพฯ</div><div class="sm">ชาร์จ <b>~48 นาที</b> · <b>~฿250</b></div></div>
+      <div class="row"><div class="k">ถึงแล้วแบตเหลือ</div><div class="v">32%<span style="color:var(--orange)">*</span></div></div>
+    </div>
+    <div class="trip">
+      <div class="dest">วังน้ำเขียว</div>
+      <div class="car"><b class="nw">BYD Atto 1 Premium 38.9 kWh</b><br>แบต 100% · ออกวันเสาร์ 08:00</div>
+      <div class="row"><div class="k">ระยะทาง · เวลารวม</div><div class="v">237 กม. <small>3 ชม. 42 นาที</small></div></div>
+      <div class="row"><div class="k">แวะชาร์จ 1 จุด</div><div class="st">PTT EV Station PluZ</div><div class="sm">171 กม. จากกรุงเทพฯ</div><div class="sm">ชาร์จ <b>~11 นาที</b> · <b>~฿26</b></div></div>
+      <div class="row"><div class="k">ถึงแล้วแบตเหลือ</div><div class="v">20%</div></div>
+    </div>
+  </div>
+
+  <div class="warn" style="margin-top:14px;font-size:23px"><b>* ภูทับเบิก:</b> ทางขึ้นชัน แอปยังไม่คิดความชัน แบตจริงอาจเหลือน้อยกว่านี้ · 2 ทริปตัวอย่าง คนละรุ่นรถ ไม่ได้เทียบกัน</div>
+
+  <footer class="foot">
+    <div class="brand">
+      <svg viewBox="0 0 24 24" aria-hidden="true"><path d="M4 7.5 12 3l8 4.5-8 4.5z"/><path d="M4 12l8 4.5 8-4.5" opacity=".75"/><path d="M4 16.5 12 21l8-4.5" opacity=".5"/></svg>
+      <div><div class="name"><b>EV</b>ROUTE</div><div class="url">evroute.info</div></div>
+    </div>
+    <div class="stamp"><b>ตัวเลขจากแผนวันที่ 23 พ.ย. 2569</b><span>ใช้ประกอบการวางแผน ของจริงขึ้นกับการขับและสภาพถนน</span></div>
+  </footer>
+</div>
+</body></html>
